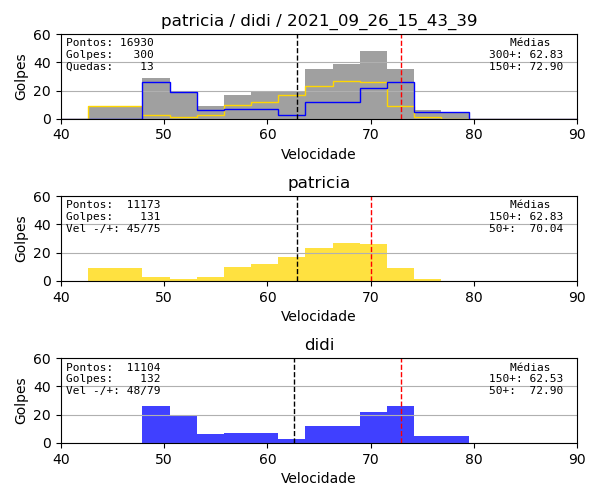
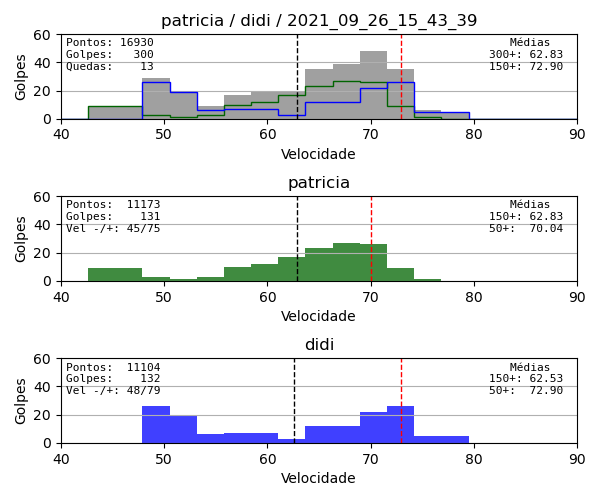
...

diff --git a/stats/histogram.py b/stats/histogram.py
@@ -35,7 +35,7 @@ plt.ylabel('Golpes')
 plt.ylim(ymax=60)
 plt.grid(axis='y')
 plt.hist(GAME[0]['hits']+GAME[1]['hits'], bins, color=['gray'], alpha=0.75)
-plt.hist(GAME[0]['hits'], bins, color=['gold'], histtype='step')
+plt.hist(GAME[0]['hits'], bins, color=['darkgreen'], histtype='step')
 plt.hist(GAME[1]['hits'], bins, color=['blue'], histtype='step')
 plt.axvline(GAME['m300'], color='k',   linestyle='dashed', linewidth=1)
 plt.axvline(GAME['m150'], color='red', linestyle='dashed', linewidth=1)
@@ -65,7 +65,7 @@ def atleta (i,clr):
     plt.axvline(GAME[i]['m150'], color='k',   linestyle='dashed', linewidth=1)
     plt.axvline(GAME[i]['m50'],  color='red', linestyle='dashed', linewidth=1)
 
-atleta(0, 'gold')
+atleta(0, 'darkgreen')
 atleta(1, 'blue')
 
 plt.tight_layout(pad=1, w_pad=1, h_pad=1)
